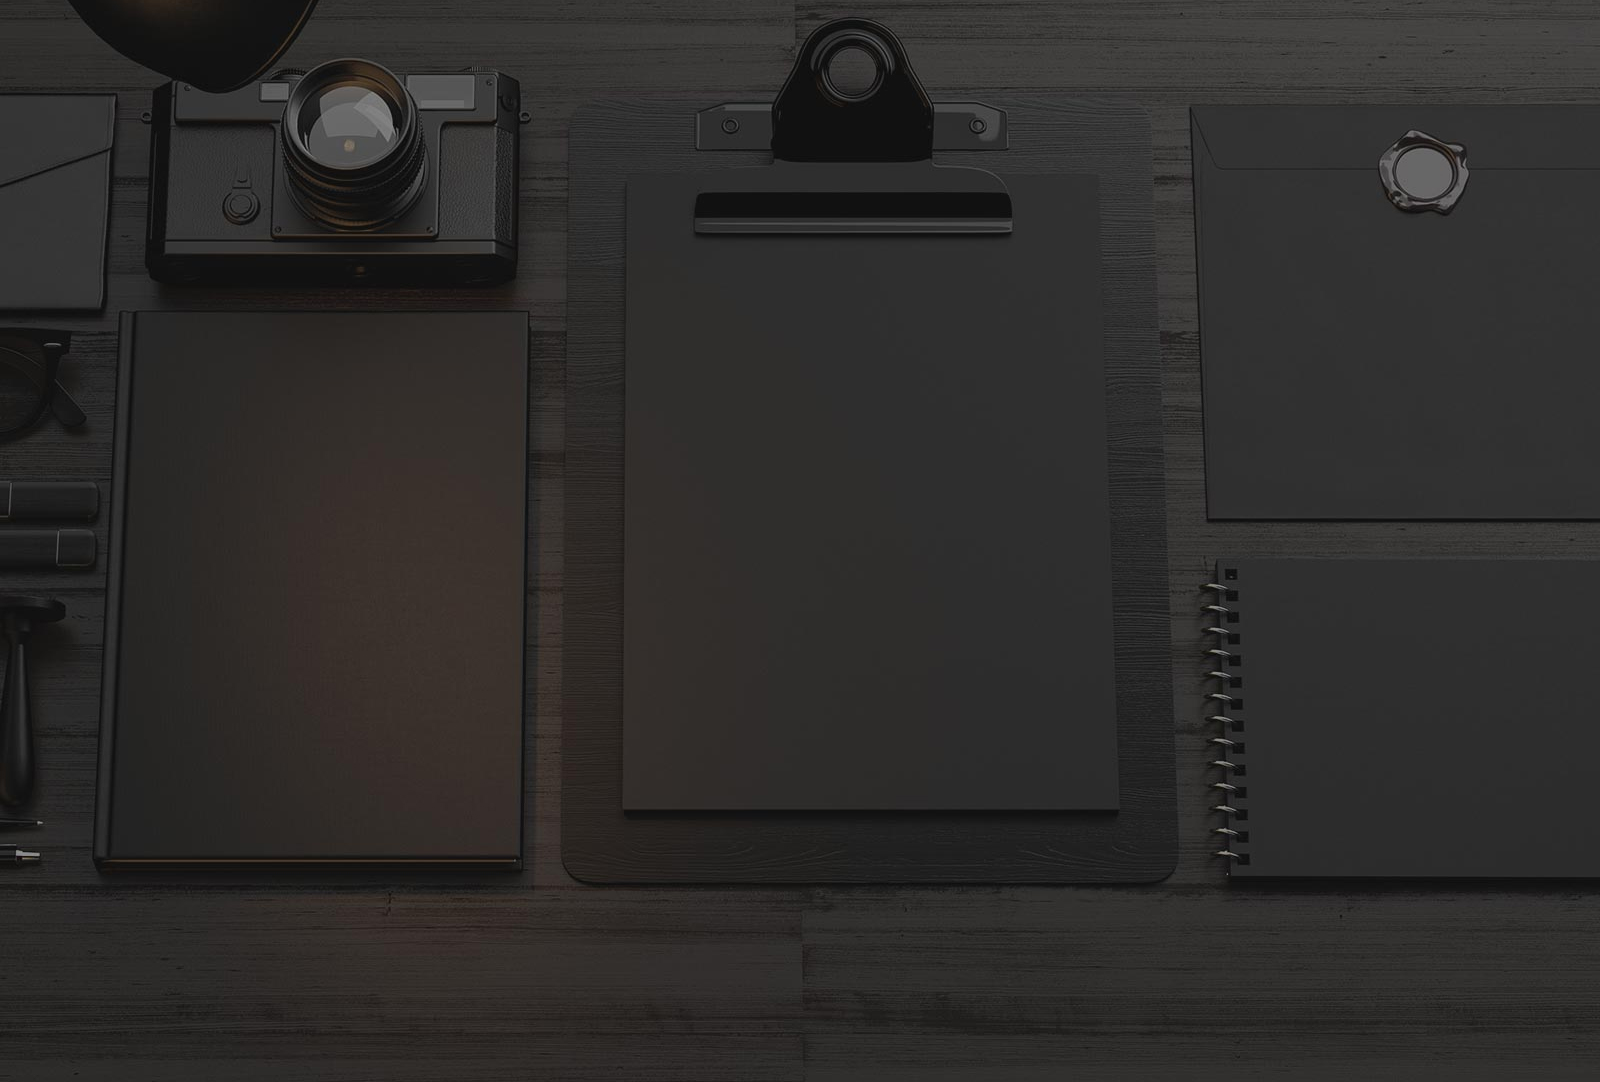
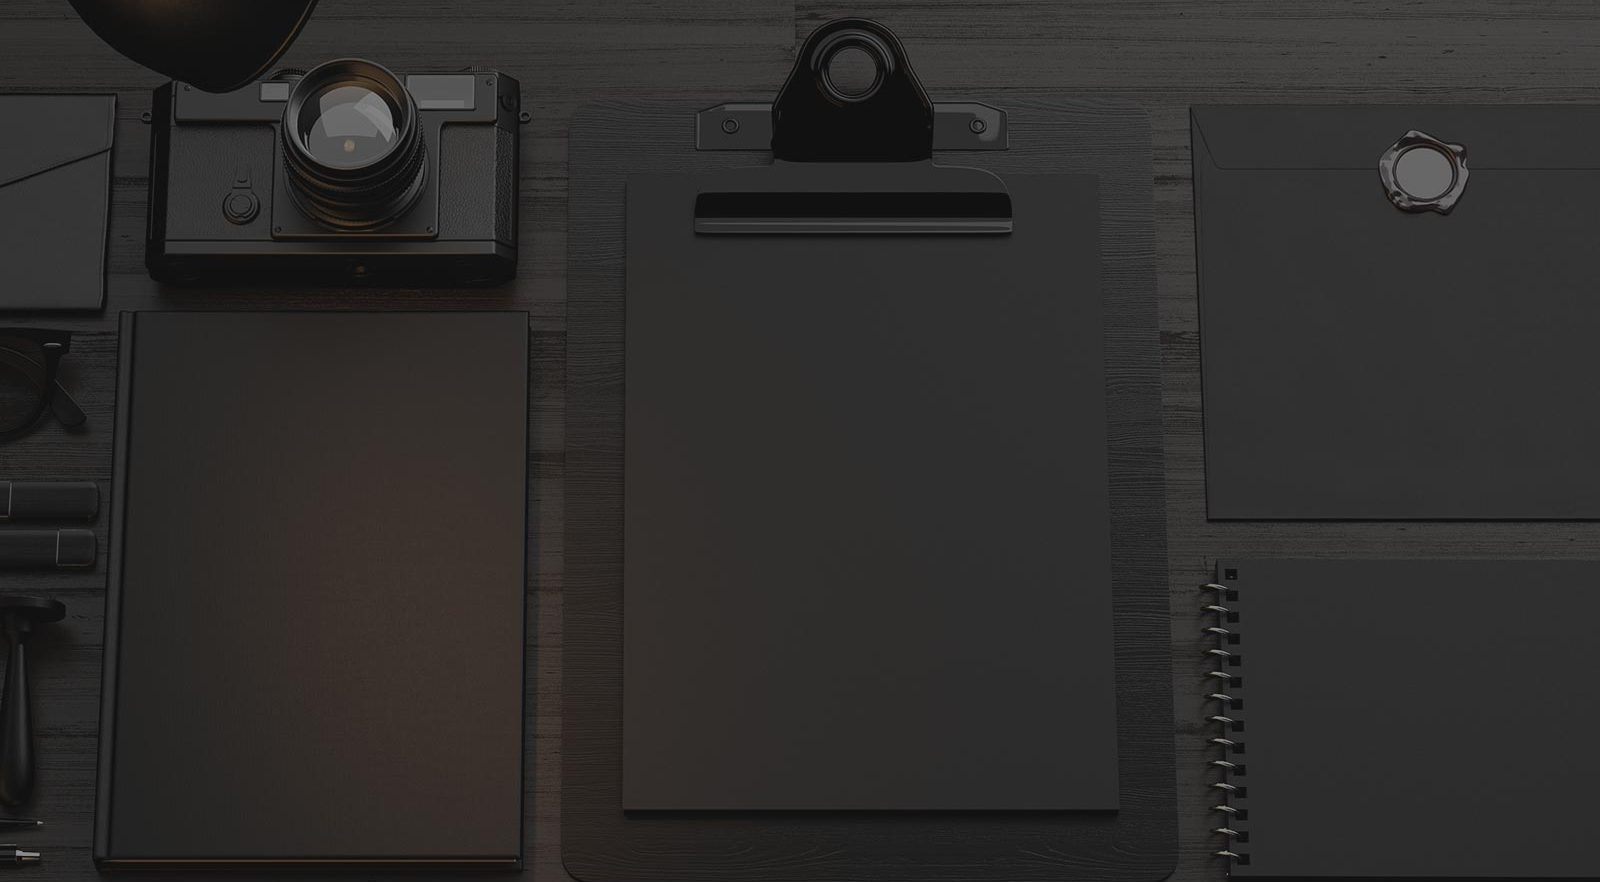
sprite
заменила цвет на спрайте

diff --git a/css/group16.css b/css/group16.css
@@ -16,24 +16,16 @@
     width: 100%;
 }
 
-.group16{
-    display: block;
-    position: relative;
-    width: 100%;
-    height: 880px;
-    background: img(../img/background/background_1.jpg);
-}
-
-    
-}
 .group16 {
     display: block;
     position: relative;
     width: 100%;
     height: 880px;
-    
+    background: img(../img/background/1.jpg);
     
 }
+
+
 .group16_text {
     display: block;
     position: absolute;
